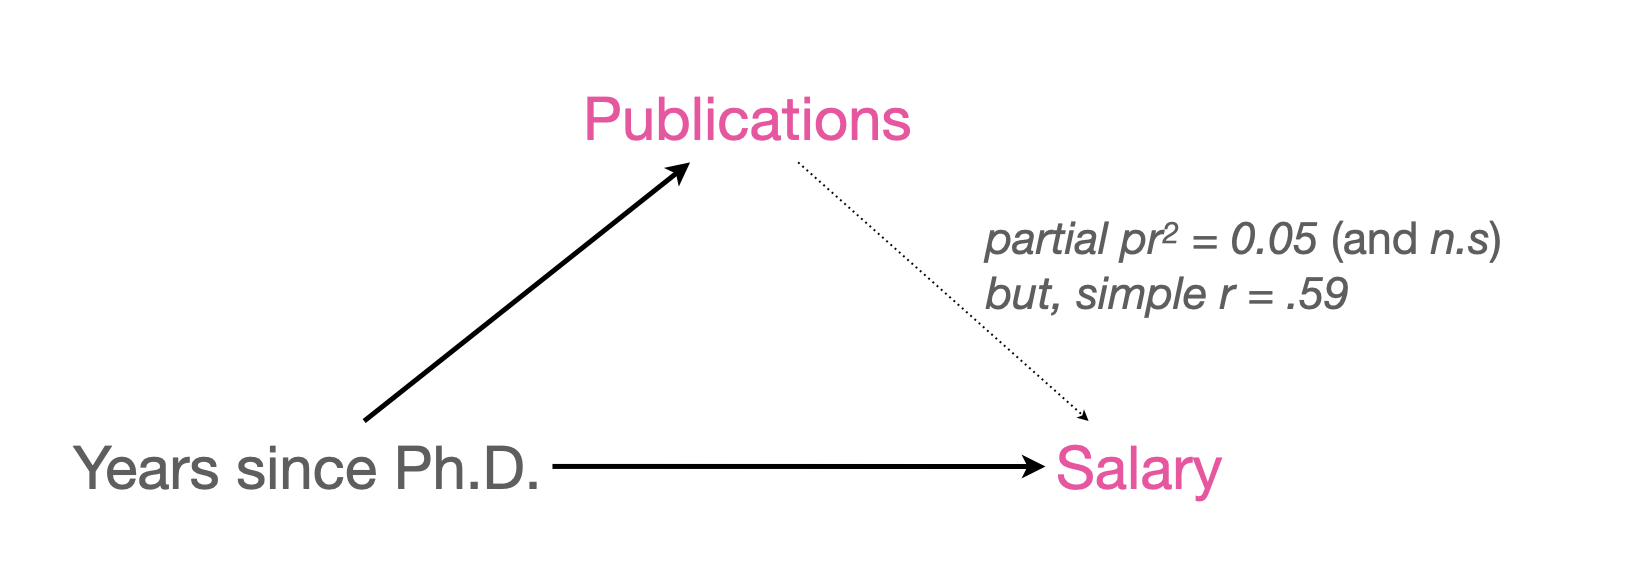
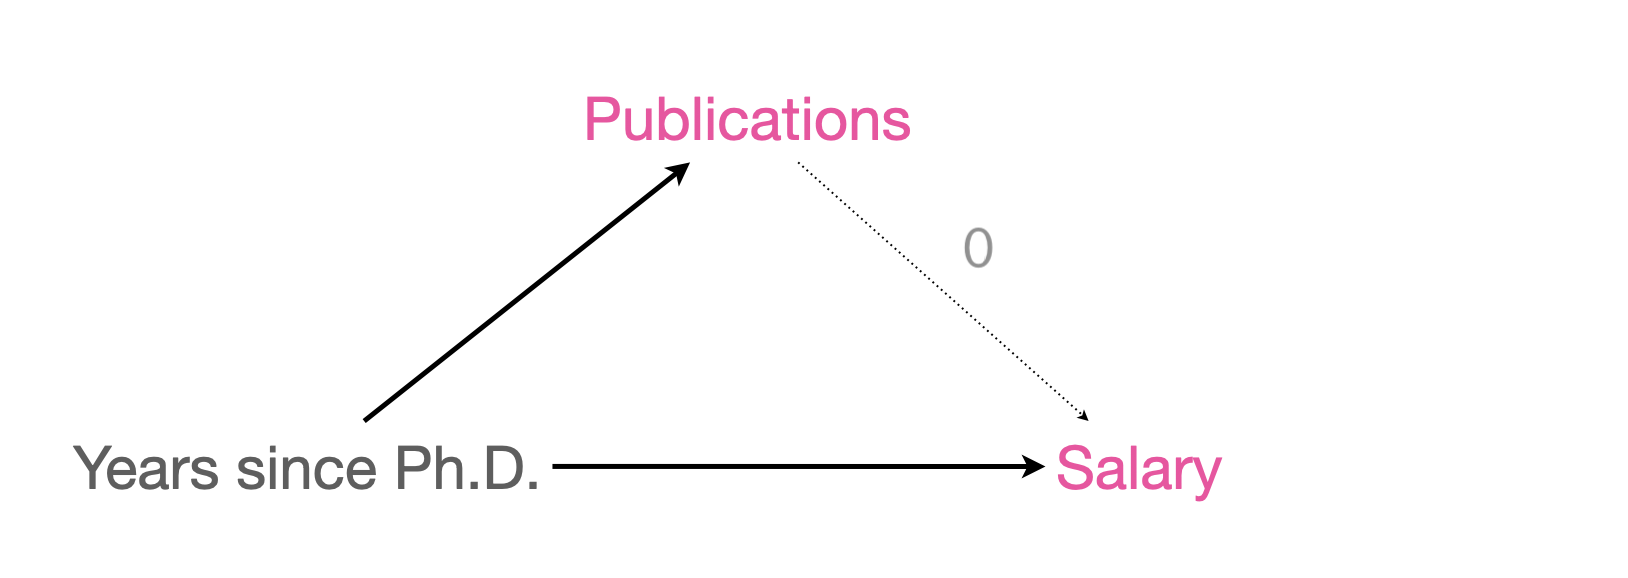
d

Changed region(s): [[0.5835, 0.3737, 0.9214, 0.5606]]

diff --git a/docs/contents/statistics.html b/docs/contents/statistics.html
@@ -583,10 +583,14 @@ Important
 <h2 class="anchored" data-anchor-id="regression-analysis">Regression analysis</h2>
 <p><strong>예측 모형 vs.&nbsp;인과 모형</strong></p>
 <ul>
-<li>인과적 연관성을 탐구하고자 한다면 매우 신중한 접근을 요함</li>
+<li>인과적 가정없이 예측이 목적인 경우도 있으나 보통 인과적 연관성을 파악하는 것이 목적임</li>
+<li>회귀 분석은 전통적으로 “causal inference”에서 중요한 역할을 해왔으나</li>
+<li>그 한계가 파악되고 확장되어 앞서 논의한 “causal inference”의 영역이 확립되었음.</li>
 </ul>
+<p>예시: 교수의 연봉(<code>salary</code>)이 학위를 받은 후 지난 시간(<code>time</code> since Ph.D.)과 출판물의 수(<code>pubs</code>)에 의해 어떻게 영향을 받는가?</p>
+<div style="line-height: 1.5em; font-size: .9em">
 <p>Source: <em>Cohen, J., Cohen, P., West, S. G., &amp; Aiken, L. S. (2003). Applied multiple regression/correlation analysis for the behavioral sciences (3rd ed.)</em></p>
-<p>교수의 연봉(<code>salary</code>)이 학위를 받은 후 지난 시간(<code>time</code> since Ph.D.)과 출판물의 수(<code>pubs</code>)에 의해 어떻게 영향을 받는가?</p>
+</div>
 <div>
 
 </div>
@@ -666,16 +670,16 @@ Model 3: <span class="math inline">\(\widehat{salary} = \$983\:time + \$122\:pub
 </div>
 <ul>
 <li>교수들의 연차와 그들이 쓴 논문 수는 깊이 연관되어 있으며 (<em>r</em> = 0.66), 두 변수의 redunancy가 각 변수들의 효과를 변화시킴.</li>
-<li>두 예측 변수의 산술적 합으로 연봉을 예측하므로 각 예측변수의 효과는 수정될 수 밖에 없음.</li>
+<li>두 예측 변수의 산술적 합(<span class="math inline">\(b_1 \cdot time + b_2 \cdot pubs\)</span>)으로 연봉을 예측하므로 각 예측변수의 효과는 (각각 따로 예측할 때에 비해) 수정될 수 밖에 없음.</li>
 <li>수학적으로 보면, 각 예측변수의 기울기는 다른 예측변수의 값에 상관없이 일정하므로, 다른 예측변수들을 (임의의 값에) <strong>고정시키는 효과</strong>를 가짐</li>
 <li>즉, 다른 변수와는 독립적인, <strong>고유한 효과</strong>를 추정하게 됨</li>
 </ul>
 <p>각 회귀계수를 partial regression coefficient (부분 회귀 계수) 라고 부름.</p>
 <p><strong>부분 회귀 계수의 첫번째 해석</strong>:</p>
 <ul>
-<li>만약 논문 수가 일정할 때, 예를 들어 10편의 논문을 쓴 경우만 봤을 때, 연차가 1년 늘 때마다 연봉은 $984 증가함; 평면의 선형모형을 가정했기에 이 관계는 논문 수에 상관없음.<br>
+<li>만약 논문 수가 일정할 때, 예를 들어 10편의 논문을 쓴 경우만 봤을 때, 연차가 1년 늘 때마다 연봉은 $984 증가함; 평면(2차원)의 선형모형을 가정했기에 이 관계는 논문 수에 상관없음.<br>
 </li>
-<li>연차가 일정할 때, 예를 들어 연차가 12년차인 경우만 봤을 때, 논문이 1편 늘 때마다 연봉은 $122 증가함; 평면의 선형모형을 가정했기에 이 관계는 연차에 상관없음.</li>
+<li>연차가 일정할 때, 예를 들어 연차가 12년차인 경우만 봤을 때, 논문이 1편 늘 때마다 연봉은 $122 증가함; 평면(2차원)의 선형모형을 가정했기에 이 관계는 연차에 상관없음.</li>
 </ul>
 <p>이는 다른 <strong>변수를 고려 (통제, controlling for) 했을 때 혹은 다른 변수의 효과를 제거 (partial out) 했을 때</strong>, 각 변수의 <strong>고유한 효과</strong>를 의미함; <strong><em>holding constant, controlling for, partialing out, adjusted for, residualizing</em></strong></p>
 <p>뒤집어 말하면, 연차만 고려했을때 연차가 1년 늘면 $1,224 연봉이 증가하는 효과는 연차가 늘 때 함께 늘어나는 논문 수의 효과가 함께 섞여 나온 효과라고 말할 수 있음.</p>
@@ -684,7 +688,7 @@ Model 3: <span class="math inline">\(\widehat{salary} = \$983\:time + \$122\:pub
 <ul>
 <li>다른 변수들이 <strong>partial out</strong> 된 후의 효과.<br>
 </li>
-<li>실제로 $122는 “연차로 (선형적으로) 예측/설명되지 않는” 논문수(즉, 잔차)로 “연차로 예측/설명되지 않는” 연봉(즉, 잔차)을 예측할 때의 기울기</li>
+<li>실제로 $122는 “연차로 (선형적으로) 예측/설명되지 않는” 논문수(즉, 잔차)로 “연차로 예측/설명되지 않는” 연봉(즉, 잔차)을 예측할 때의 기울기; 아래 그림에서 보라색으로 예측되는 빨간색 부분</li>
 </ul>
 <p>  <img src="images/partial1.png" class="img-fluid" width="260"></p>
 <p><strong>Direct and Indirect Effects</strong></p>
@@ -702,7 +706,22 @@ Model 3: <span class="math inline">\(\widehat{salary} = \$983\:time + \$122\:pub
 </ul>
 <p><strong>Strength of Associations</strong></p>
 <p>연차와 논문 수로 연봉을 예측했을 때의 <span class="math inline">\(R^2 = 0.53\)</span></p>
-<p>Correlations with <code>salary</code></p>
+<ul>
+<li>즉, 연차와 논문 수로 연봉의 변량의 53%를 설명할 수 있음</li>
+<li>혹은 <span class="math inline">\(R = r(Y, \hat{Y}) = \sqrt{0.53} = 0.73\)</span></li>
+</ul>
+<p>반면, 각 변수와 연봉 간의 고유한 상관관계를 측정하고자 한다면 partial/semi-partial correlation을 고려(아래 테이블)</p>
+<ul>
+<li>논문 수와는 독립적인 연차와 연봉 간의 부분상관계수(partial correlation) <span class="math inline">\(pr = 0.53\)</span>
+<ul>
+<li>그 제곱 <span class="math inline">\(pr^2 = 0.28\)</span>; 28%의 변량을 설명</li>
+</ul></li>
+<li>연차와는 독립적인 논문 수와 연봉 간의 부분상관계수(partial correlation) <span class="math inline">\(pr = 0.23\)</span>
+<ul>
+<li>그 제곱 <span class="math inline">\(pr^2 = 0.05\)</span>; 5%의 변량을 설명</li>
+</ul></li>
+<li>semi-partial correlation 조금 다른 의미</li>
+</ul>
 <div>
 
 </div>
@@ -765,12 +784,15 @@ Model 3: <span class="math inline">\(\widehat{salary} = \$983\:time + \$122\:pub
 </div>
 </div>
 </div>
+<p><br></p>
+<p><strong>직접 효과(direct effect)가 거의 0인 경우</strong></p>
 <p>만약, 예를 들어 연차의 효과 $1224이 논문수를 고려했을 때 줄어든($983) 수준을 훨씬 넘어 통계적으로 유의하지 않을 정도로 0에 가까워진다면(즉, 모집단에서는 사실상 0일 가능성이 있음), 연차의 효과는 모두 논문의 효과를 거쳐 나타나는 것이라고 말할 수 있음(직접 효과 = 0). 다시 말하면, 연차 자체는 연봉에 영향을 주지 않음; 완전 매개 (fully mediate)한다고도 표현함.</p>
 <p><img src="images/salary_model3.png" class="img-fluid" width="400"></p>
 <p><strong>Spurious Relationships</strong></p>
 <p>반대로, 만약 다음과 같이 연차를 고려했을 때 논문수(<code>pubs</code>)의 효과가 거의 사라진다면,<br>
-논문수(<code>pubs</code>)와 연봉(<code>salary</code>)의 관계는 <strong>spurious</strong>한 관계라고 잠정적으로 말할 수 있음.</p>
-<p>연차를 논문수와 연봉의 <strong>common cause</strong> 라고 말하며, <strong>confounding</strong>이 되어 논문수와 연봉의 인과관계는 실제로 없을 수 있음을 암시함.</p>
+논문수(<code>pubs</code>)와 연봉(<code>salary</code>)의 관계는 <strong>spurious(가짜)</strong>한 관계라고 잠정적으로 말할 수 있음.</p>
+<p>연차를 논문수와 연봉의 <strong>common cause</strong> 라고 말하며, <strong>confounding</strong>이 되어 논문수와 연봉의 인과관계는 실제로 없을 수 있음을 암시함.<br>
+즉, 논문수가 연봉에 영향을 주는 것처럼 보이는(연관성) 이유는 연차로 인해 모두 증가되어 나타나는 착시현상임.</p>
 <p><img src="images/salary_model4.png" class="img-fluid" width="500"></p>
 <div class="callout callout-style-default callout-important callout-titled">
 <div class="callout-header d-flex align-content-center">
